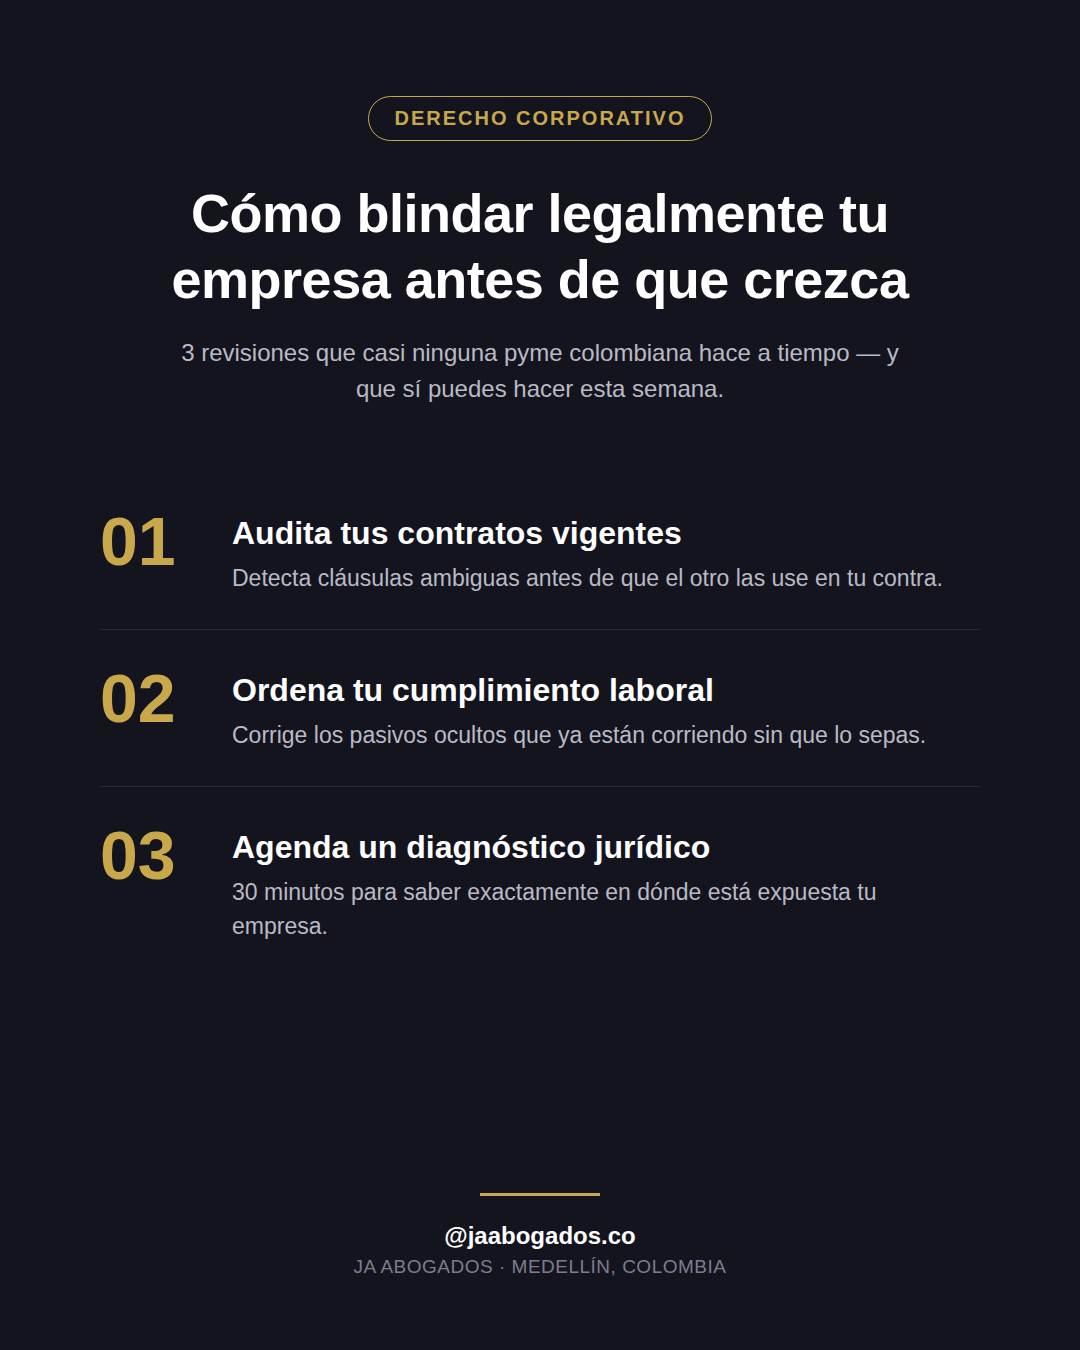
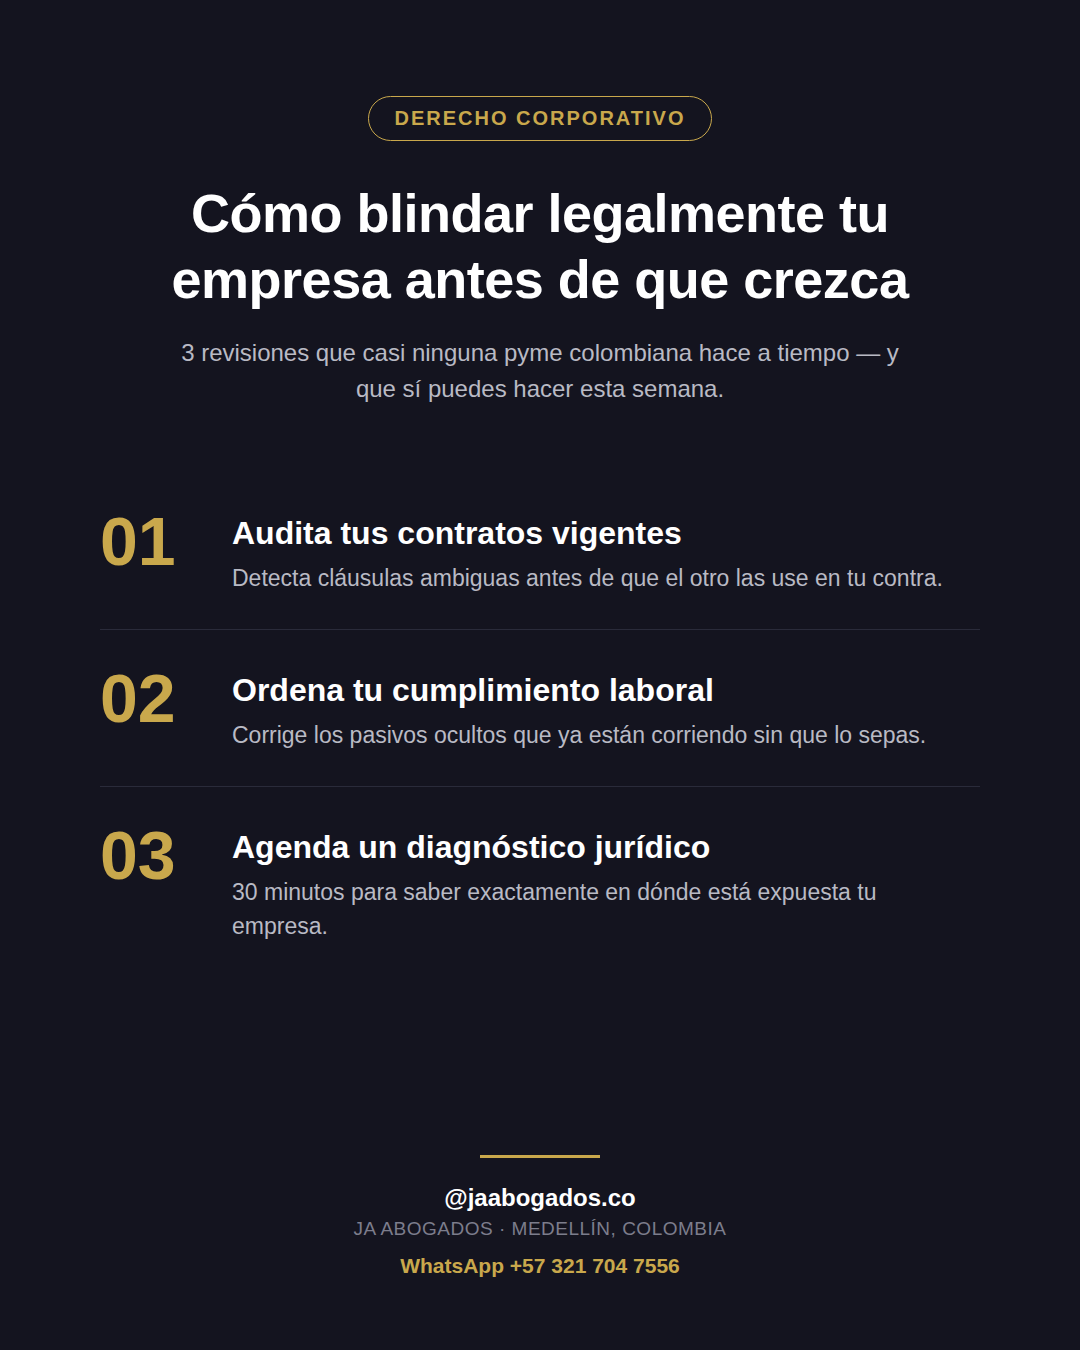
Fijar WhatsApp +57 321 704 7556 como canal de contacto directo
Reemplaza los placeholders [WhatsApp] en carruseles y plan de marketing,
lo documenta en CLAUDE.md como dato canónico y lo agrega al pie de la
skill /infografia-linkedin y de la primera infografía generada.

Claude-Session: https://claude.ai/code/session_0145C2idysfyvSfFbjUHbFRu

Changed region(s): [[0.3361, 0.8711, 0.6722, 0.9644]]

diff --git a/infografias-linkedin/blindaje-legal-pyme.html b/infografias-linkedin/blindaje-legal-pyme.html
@@ -130,6 +130,13 @@
     color: #7C7D8C;
     letter-spacing: 0.5px;
   }
+
+  .footer-whatsapp {
+    margin-top: 14px;
+    font-size: 21px;
+    font-weight: 700;
+    color: #C9A84C;
+  }
 </style>
 </head>
 <body>
@@ -167,6 +174,7 @@
       <div class="footer-line"></div>
       <div class="footer-handle">@jaabogados.co</div>
       <div class="footer-city">JA ABOGADOS · MEDELLÍN, COLOMBIA</div>
+      <div class="footer-whatsapp">WhatsApp +57 321 704 7556</div>
     </div>
   </div>
 </body>

diff --git a/.claude/commands/infografia-linkedin.md b/.claude/commands/infografia-linkedin.md
@@ -19,7 +19,7 @@ Completa estos campos siguiendo reglas estrictas de redacción:
 - **Etiqueta** (categoría, MAYÚSCULAS): uno de los 8 pilares, ej. `DERECHO CORPORATIVO`, `CONTRATOS COMERCIALES`, `CUMPLIMIENTO NORMATIVO`.
 - **Título how-to**: qué consigue el lector, no qué es el tema. Formato "Cómo [resultado]" o "[Número] señales de que [problema]". Máx. ~10 palabras.
 - **3 bloques numerados**: cada uno "[título de 2-4 palabras]" + "[frase de 6-10 palabras, verbatim, sin relleno]". Deben ser pasos accionables en secuencia (1→2→3), no una lista plana de datos.
-- **Pie**: `@jaabogados.co` (o el handle real de la red destino) + ciudad `Medellín, Colombia`.
+- **Pie**: `@jaabogados.co` (o el handle real de la red destino) + ciudad `Medellín, Colombia` + WhatsApp `+57 321 704 7556` (medio de contacto directo — ver `CLAUDE.md`, incluir siempre, nunca dejarlo como placeholder).
 
 Reglas de redacción (no negociables):
 - Narrativa, no keywords: cada frase describe una acción o consecuencia concreta, no una lista de adjetivos.

diff --git a/CLAUDE.md b/CLAUDE.md
@@ -2,6 +2,9 @@
 
 Firma de abogados en Medellín, Colombia. Este repositorio contiene herramientas de desarrollo de negocio y gestión de prospectos.
 
+## Contacto directo
+- **WhatsApp: +57 321 704 7556** (`wa.me/573217047556`) — medio de comunicación directo del titular. Usar siempre como CTA en contenido promocional (infografías, carruseles, plan de marketing), nunca como placeholder genérico.
+
 ## Stack
 - **Python 3** + `openpyxl` para generación de Excel
 - **Excel/Google Sheets** como frontend del CRM

diff --git a/infografias-linkedin/blindaje-legal-pyme.md b/infografias-linkedin/blindaje-legal-pyme.md
@@ -21,6 +21,6 @@ Corrige los pasivos ocultos que ya están corriendo sin que lo sepas.
 03 · Agenda un diagnóstico jurídico
 30 minutos para saber exactamente en dónde está expuesta tu empresa.
 
-👉 Escríbeme y agenda tu diagnóstico jurídico gratuito de 30 minutos.
+👉 Escríbeme por WhatsApp y agenda tu diagnóstico jurídico gratuito de 30 minutos: wa.me/573217047556
 
 #DerechoCorporativo #PYMEsColombia #AsesoríaJurídica #Contratos #CumplimientoNormativo #Medellín #Colombia #JAAbogados

diff --git a/plan_marketing_digital_jaabogados.md b/plan_marketing_digital_jaabogados.md
@@ -177,7 +177,7 @@ CEO AND pyme AND Antioquia
 - Etiquetas: Prospecto nuevo / Consulta activa / Cliente / Seguimiento / Propuesta enviada
 
 **Enlace directo para bio de Instagram:**
-`https://wa.me/57XXXXXXXXXX?text=Hola,%20me%20interesa%20una%20consulta%20jurídica`
+`https://wa.me/573217047556?text=Hola,%20me%20interesa%20una%20consulta%20jurídica`
 
 ---
 

diff --git a/carrusel_linkedin_instagram.md b/carrusel_linkedin_instagram.md
@@ -131,7 +131,7 @@ Políticas internas · Documentación · Organización · Mejora operativa
 > *Si mañana tu empresa recibiera una revisión legal, laboral, financiera o administrativa… ¿todo estaría en orden?*
 
 👉 **Escríbeme y hablamos**
-[Agregar perfil de LinkedIn o WhatsApp]
+WhatsApp: wa.me/573217047556
 
 ---
 

diff --git a/entrega2_carrusel_legal.md b/entrega2_carrusel_legal.md
@@ -158,7 +158,7 @@ No esperes a que llegue la demanda para saber qué dice tu contrato.
 **Firma:**
 Andrés Felipe Ríos Montoya
 Consultor Legal Empresarial
-[LinkedIn] [WhatsApp]
+[LinkedIn] · WhatsApp: wa.me/573217047556
 
 ---
 

diff --git a/entrega3_carrusel_financiero.md b/entrega3_carrusel_financiero.md
@@ -168,7 +168,7 @@ No es normal no saber. Es frecuente. Y tiene solución.
 **Firma:**
 Carolina Mejía Vargas
 Consultora Financiera Empresarial
-[LinkedIn] [WhatsApp]
+[LinkedIn] · WhatsApp: wa.me/573217047556
 
 ---
 
